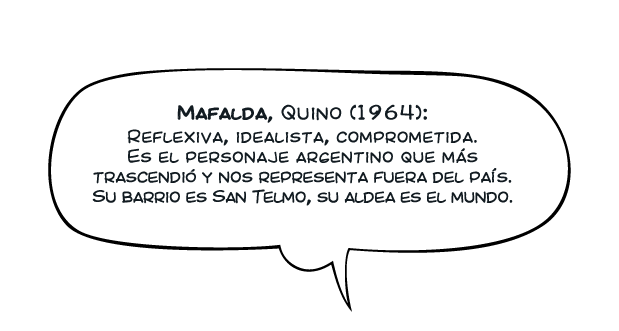
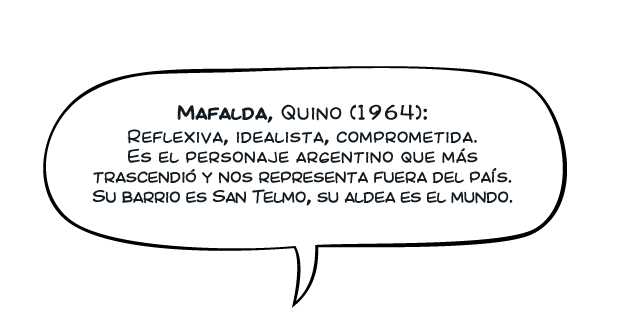
pequeños cambios

diff --git a/js/canvas.js b/js/canvas.js
@@ -137,7 +137,7 @@ function dibujarEstacion(){
 
 		//Post slide
 		if(actual==0) { //mafalda
-			$('#globa_personaje').css({top:'169px',left:'225px'}).html('<img src="images/globa_mafalda.png" width="350"/>');
+			$('#globa_personaje').css({top:'169px',left:'409px'}).html('<img src="images/globa_mafalda.png" width="350"/>');
 			$('#personaje').css({top:'340px',left:'330px'}).html('<img src="images/mafalda.png"/>').show();
 			$('#texto_home').show();
 		}

diff --git a/css/canvas.css b/css/canvas.css
@@ -321,13 +321,19 @@ section#autores .verTodas:hover
     text-decoration: underline;
 }
 
-section#autores .head span.fecha
+section#autores .head a.fecha
 {
     float: right;
     margin-top: 15px;
     display: block;
     font-size: 12px;
     color: #999;
+    text-decoration: none;
+}
+
+section#autores .head a.fecha:hover
+{
+    text-decoration: underline;
 }
 
 section#sectionMapa .infoWindow

diff --git a/application/views/galeria.php b/application/views/galeria.php
@@ -1,11 +1,19 @@
 <section class="galeria">
 	<style>
-        #share { top: 700px }
+        #share { display: none; }
+        #shareCopy { 
+            float: right;
+            position: relative;
+            right: 30px;
+            top: 10px;
+        }
+        #shareCopy img { width: 120px; }
+        #gallery { height: 830px }
         #galleria {width: 755px;height: 498px;}
         #ppal { position: absolute;top: 150px;left: 183px; }
         #ppal ul { list-style: none; padding: 0; margin: 0 ; overflow: hidden; float: left; }
         #ppal ul li { float: left; margin-right: 10px }
-        #ppal ul a { color: black; text-decoration: none; }
+        #ppal ul a { color: black; text-decoration: none; font-size: 16px }
         #ppal ul a:hover { text-decoration: underline; }
         #categoriasWrapper { 
             background-color: #FFF;
@@ -17,6 +25,7 @@
         #ppal ul a.active { color: #F2629D }
         #pajarito {display: none}
         #paseo { top: 30px;}
+        #imgComparti { display: inline-block; margin-top: 10px; }
     </style>
     
     <div id="ppal">
@@ -50,6 +59,17 @@
         </div>
         <div class="clear"></div>
 		<div id="galleria"></div>
+         
+        <?php if ( $galeriaSeleccionada['id'] != 2 ) :  ?> 
+        <a href="https://facebook.com/construccionciudadanaba" id="imgComparti" target="_blank">
+            <img src="images/boton_comparti.jpg" />
+        </a>
+        <?php endif; ?>
+        
+        <div id="shareCopy"><img src="images/share.png"/>
+            <a id="tweet" href="https://twitter.com/CiudadaniaBA" target="_blank" ><img src="images/transparent.png"/></a>
+            <a id="fb" href="https://facebook.com/construccionciudadanaba" target="_blank" ><img src="images/transparent.png"/></a>
+        </div>	
 	</div>
     <script>
         $( function() {

diff --git a/application/models/autor.php b/application/models/autor.php
@@ -12,7 +12,7 @@ class Autor extends MY_Model {
 		/*** Fields ***/
 		$this->fields['title'] = new Textbox('Nombre');
 		$this->fields['imagenPrincipal'] = new FileUpload(0, false, 'Imagen principal');
-		$this->fields['imagenCuerpo'] = new FileUpload(1, false, 'Imagen cuerpo');
+		//$this->fields['imagenCuerpo'] = new FileUpload(1, false, 'Imagen cuerpo');
         $this->fields['personajes'] = new ForeignModel('Personaje');
         $this->fields['texto'] = new TextEditor();
         //$this->fields['bio'] = new TextEditor();
@@ -21,8 +21,8 @@ class Autor extends MY_Model {
 		$this->fields['imagenPrincipal']->dimensionesRecomendadas = '128x165';
         $this->fields['imagenPrincipal']->isImage(1);
                 
-		$this->fields['imagenCuerpo']->dimensionesRecomendadas = '690x427';
-        $this->fields['imagenCuerpo']->isImage(1);
+		//$this->fields['imagenCuerpo']->dimensionesRecomendadas = '690x427';
+        //$this->fields['imagenCuerpo']->isImage(1);
         
         /*$this->fields['bio']->extraTags = array('Título' => 'h2', 'Subtítulo' => 'h3');
         $this->fields['bio']->allowImages = true;*/

diff --git a/application/views/autores.php b/application/views/autores.php
@@ -66,7 +66,7 @@
                 <div class="info">
                     <div class="head">
                         <h2><?= $entrada['title'] ?></h2>
-                        <span class="fecha"><?= date('d/m/Y', strtotime($entrada['fecha'])) ?></span>
+                        <a class="fecha" href="<?= $entrada['url'] ?>"><?= date('d/m/Y', strtotime($entrada['fecha'])) ?></a>
                     </div>
                     <div class="clear"></div>
                     <div class="bioWrapper">

diff --git a/application/controllers/galeriacontroller.php b/application/controllers/galeriacontroller.php
@@ -57,6 +57,7 @@ class GaleriaController extends MasterController
         $galerias = array( Galeria::getRowArray(2) );
         
         $galeria = $this->getGaleria(2, 'galerias');
+        $galeria['type'] = 'Galeria';
         
         $this->setFacebookDescription("Galeria de $galeria[title] en el Paseo de la historieta BA");
         $this->setFacebookImage($galeria['imagenes'][0]);
